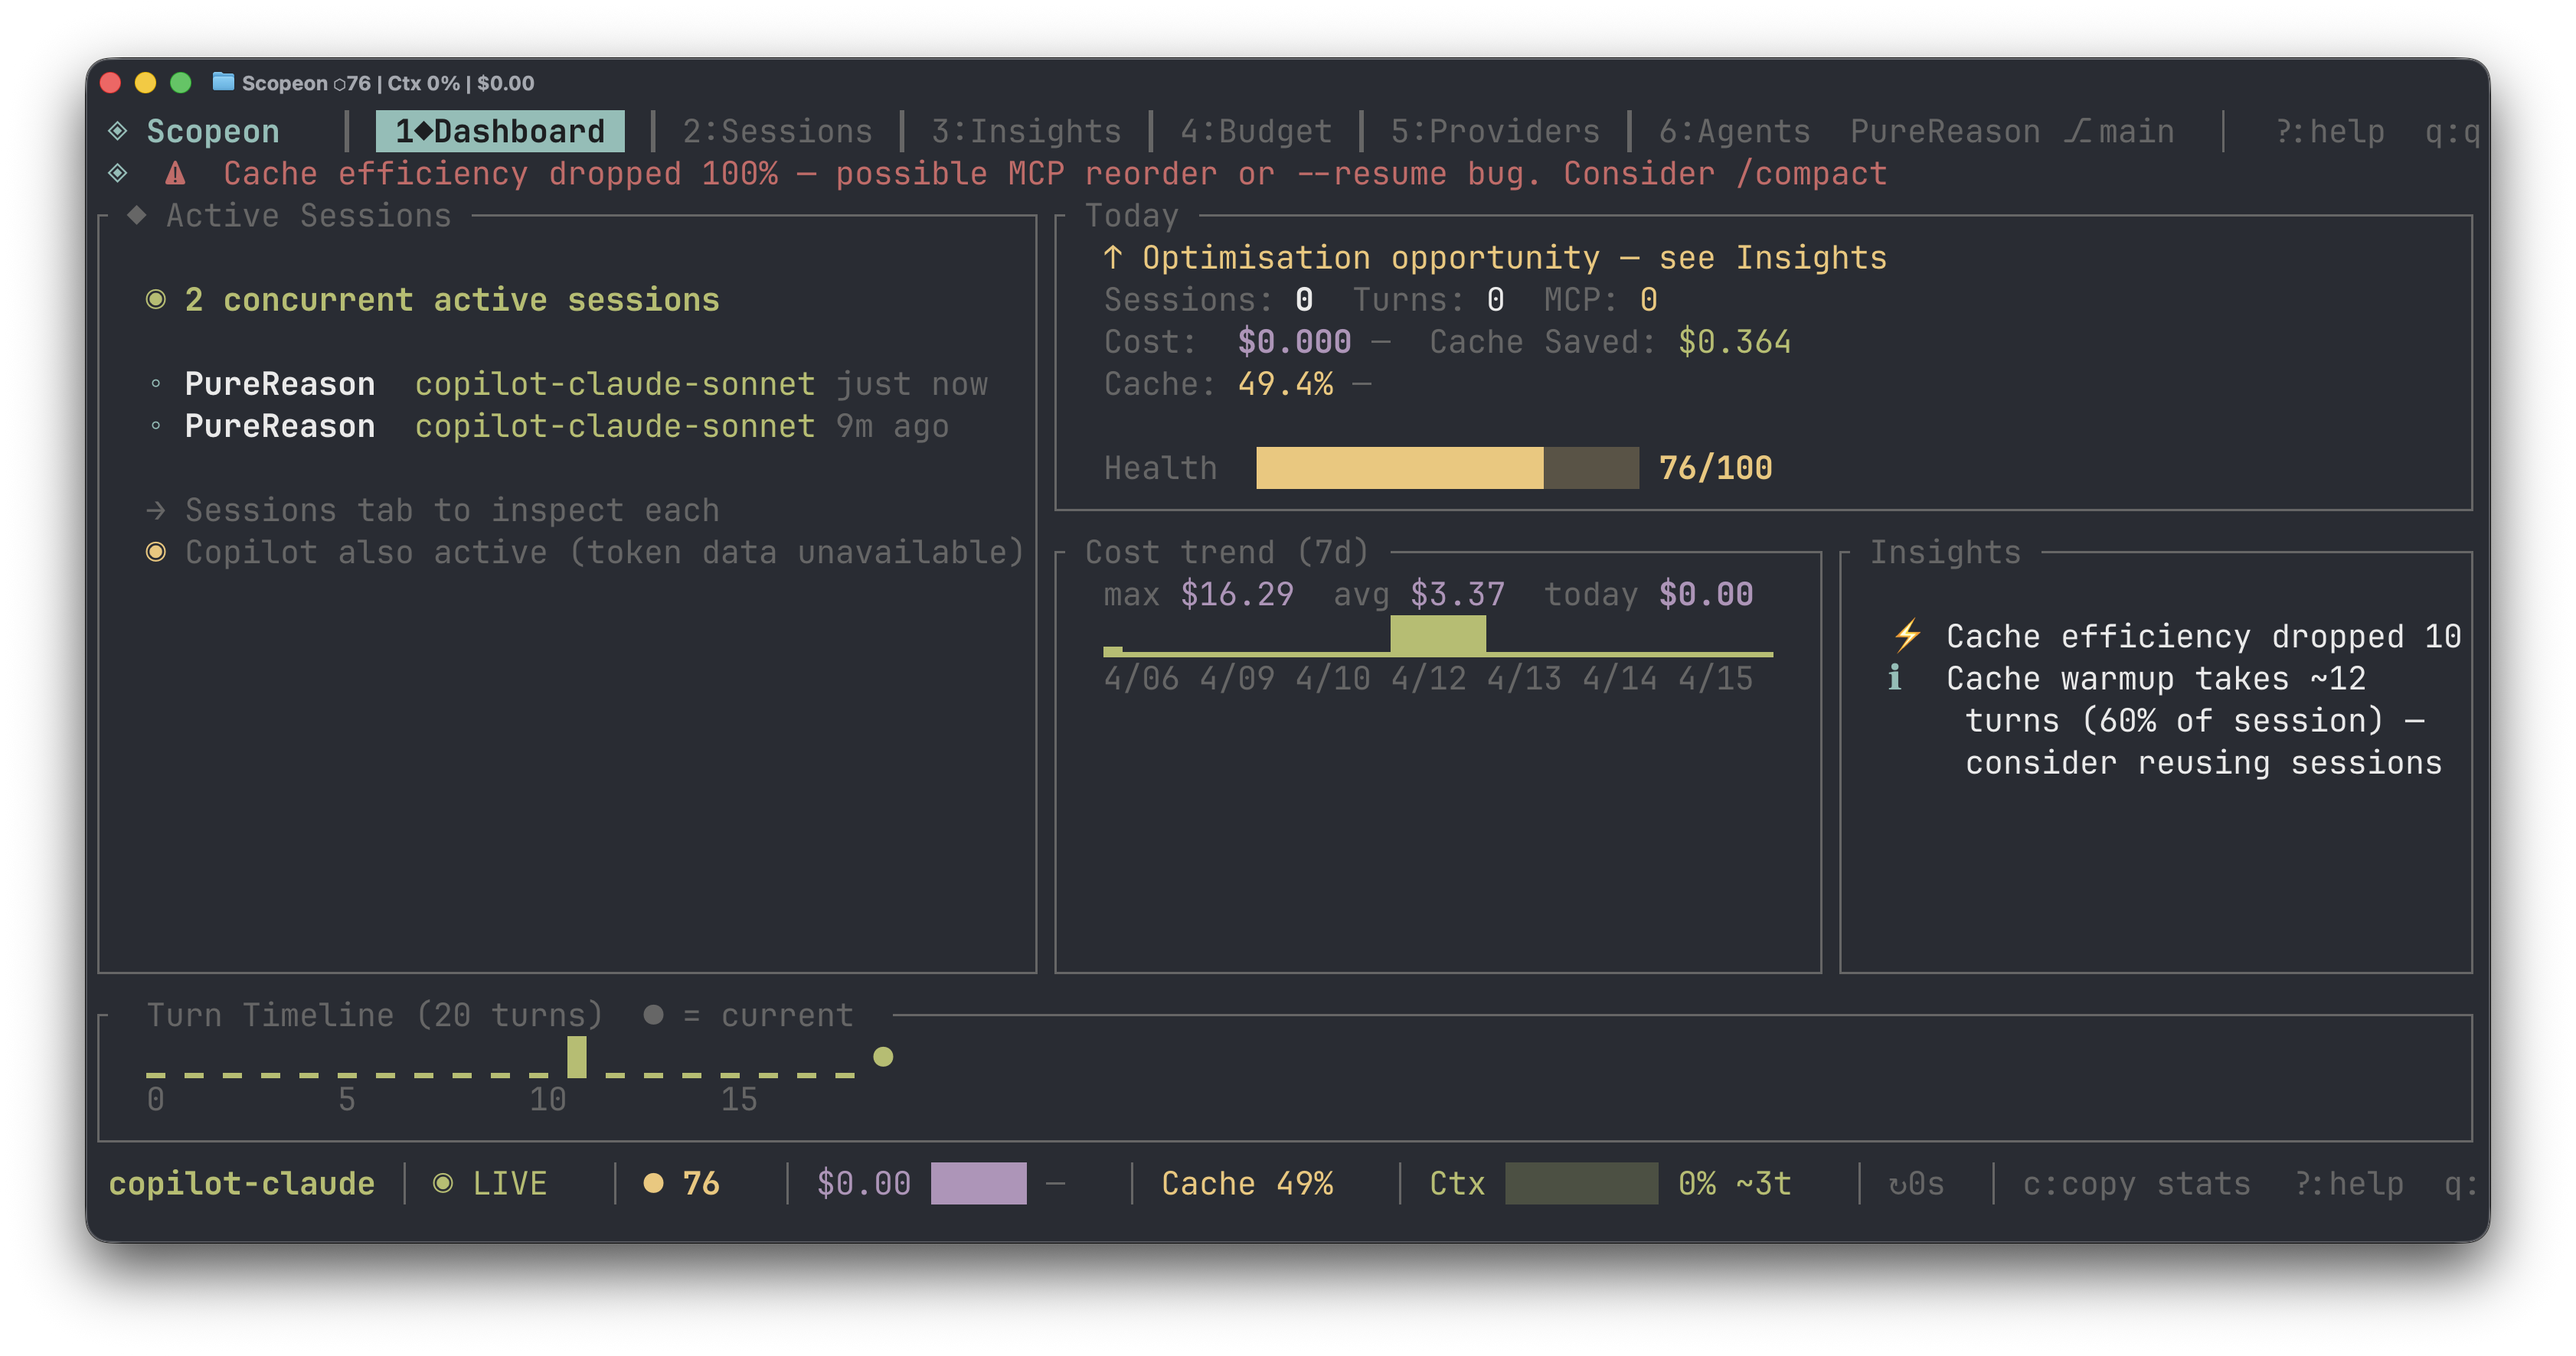
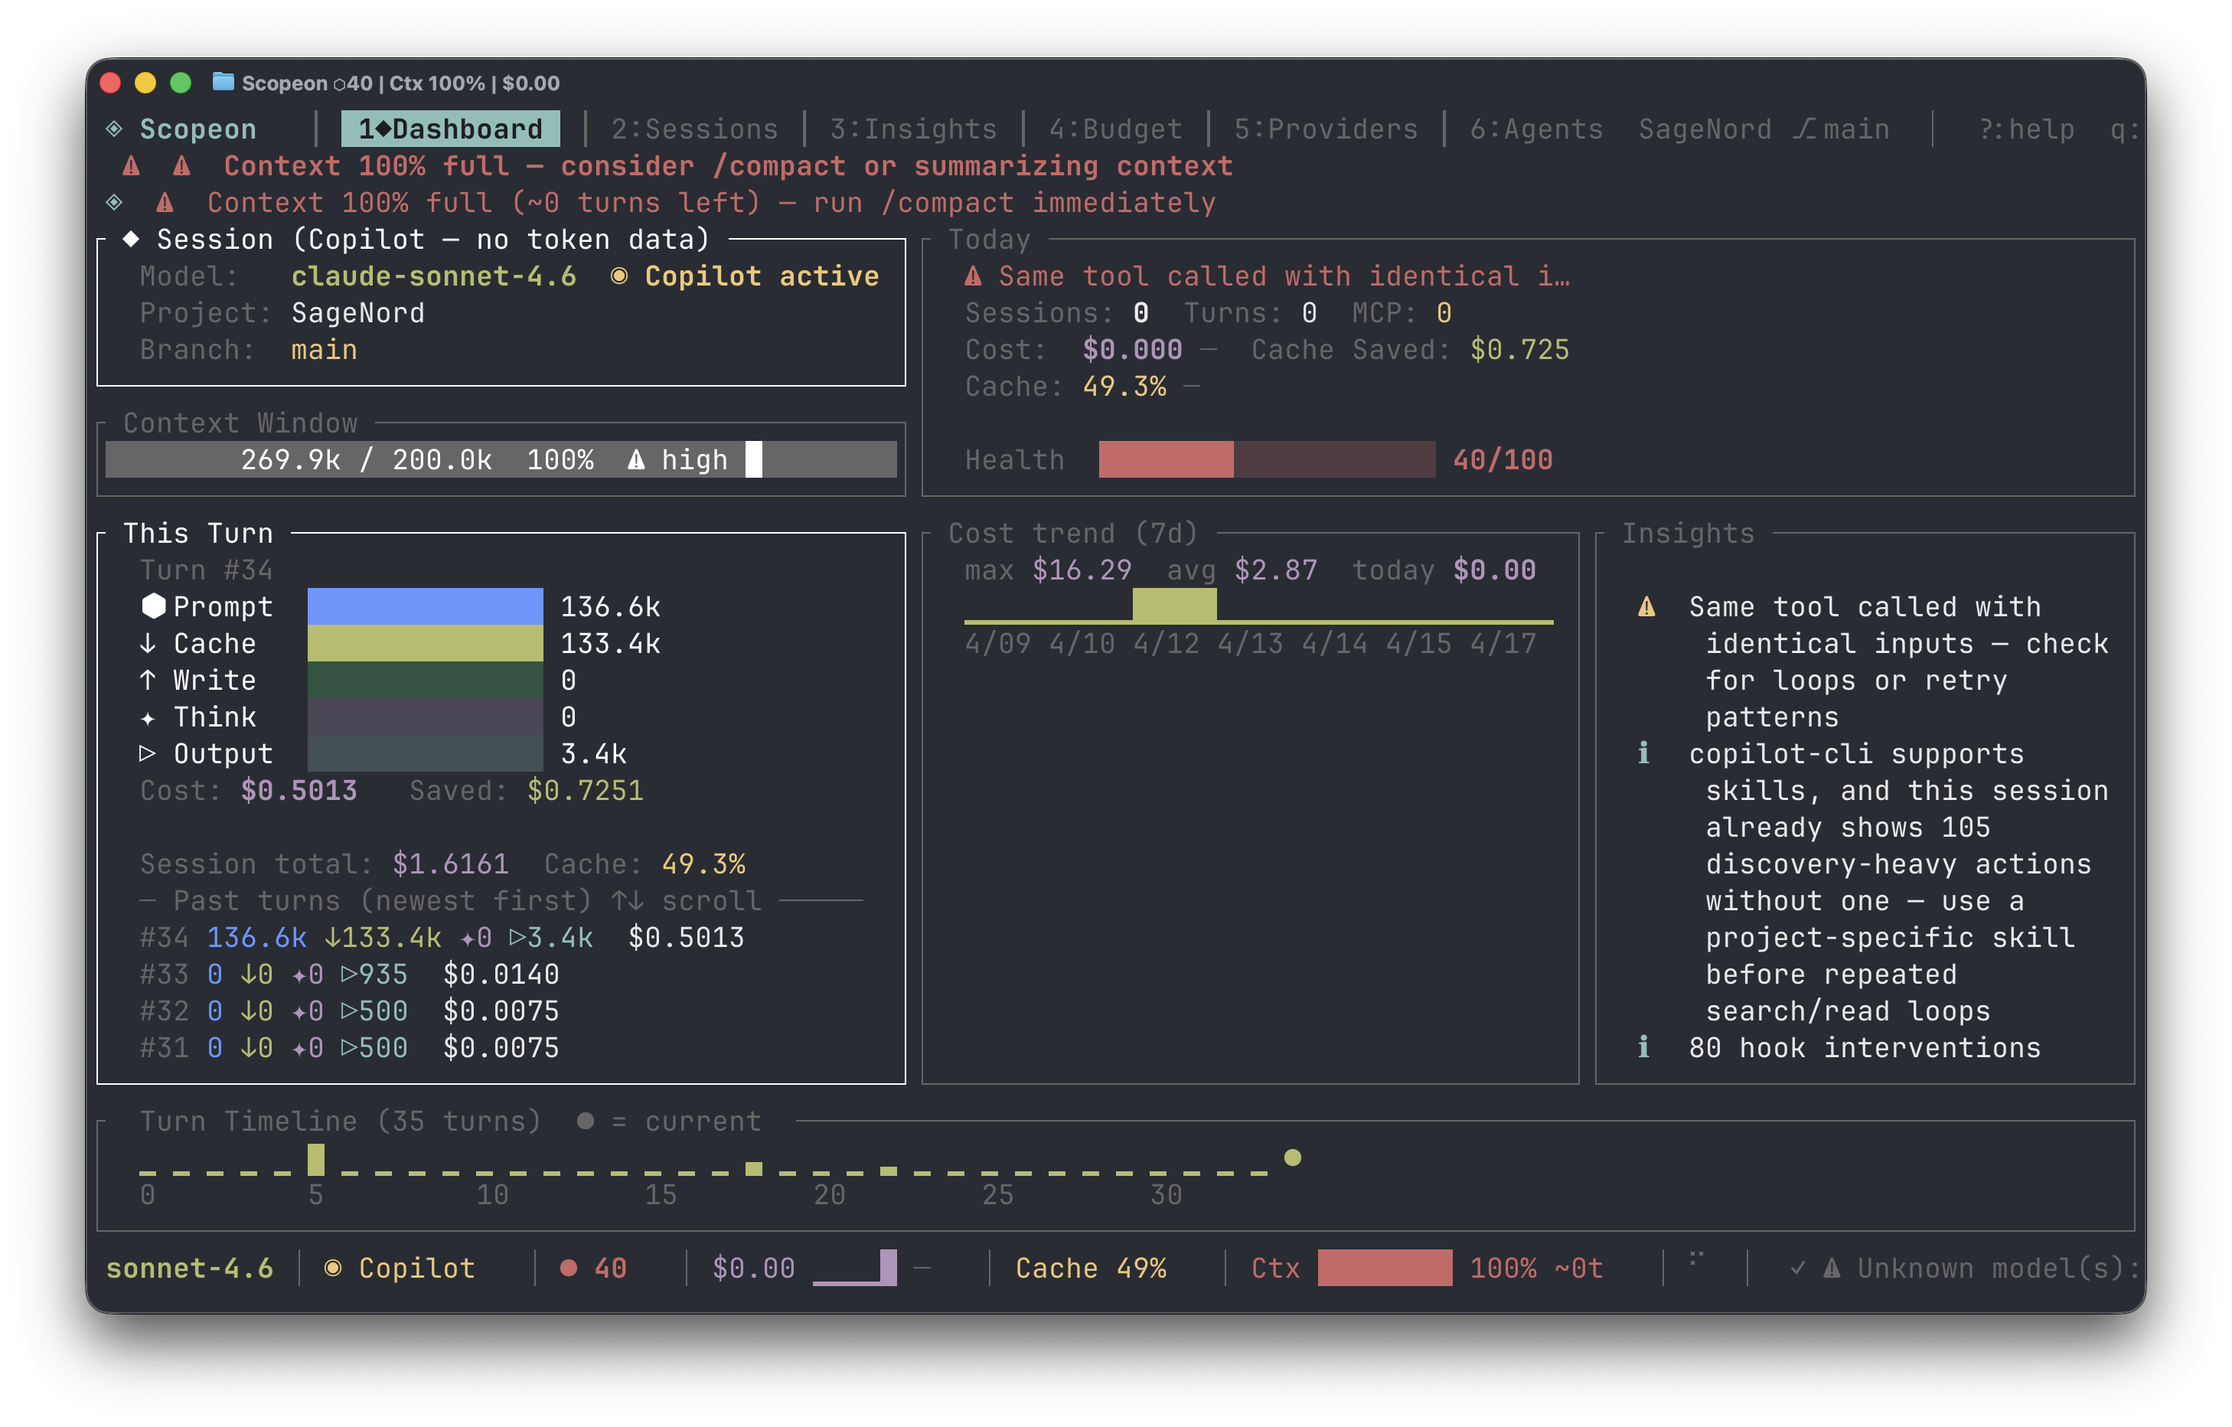
docs: add demo gif and update screenshots in README
- Add scopeon-demo.gif to Screenshots section
- Update assets/0-dashboard.png and assets/2-insights.png

Changed region(s): [[0.0312, 0.031, 0.9674, 0.9312], [0.2809, 0.5897, 0.3433, 0.6828], [0.2497, 0.5897, 0.2809, 0.6208]]

diff --git a/README.md b/README.md
@@ -79,6 +79,8 @@
 
 ## Screenshots
 
+![Scopeon Demo](scopeon-demo.gif)
+
 **Sessions** — full session list with per-turn cost, cache %, MCP call count
 
 ![Sessions](assets/1-sessions.png)
